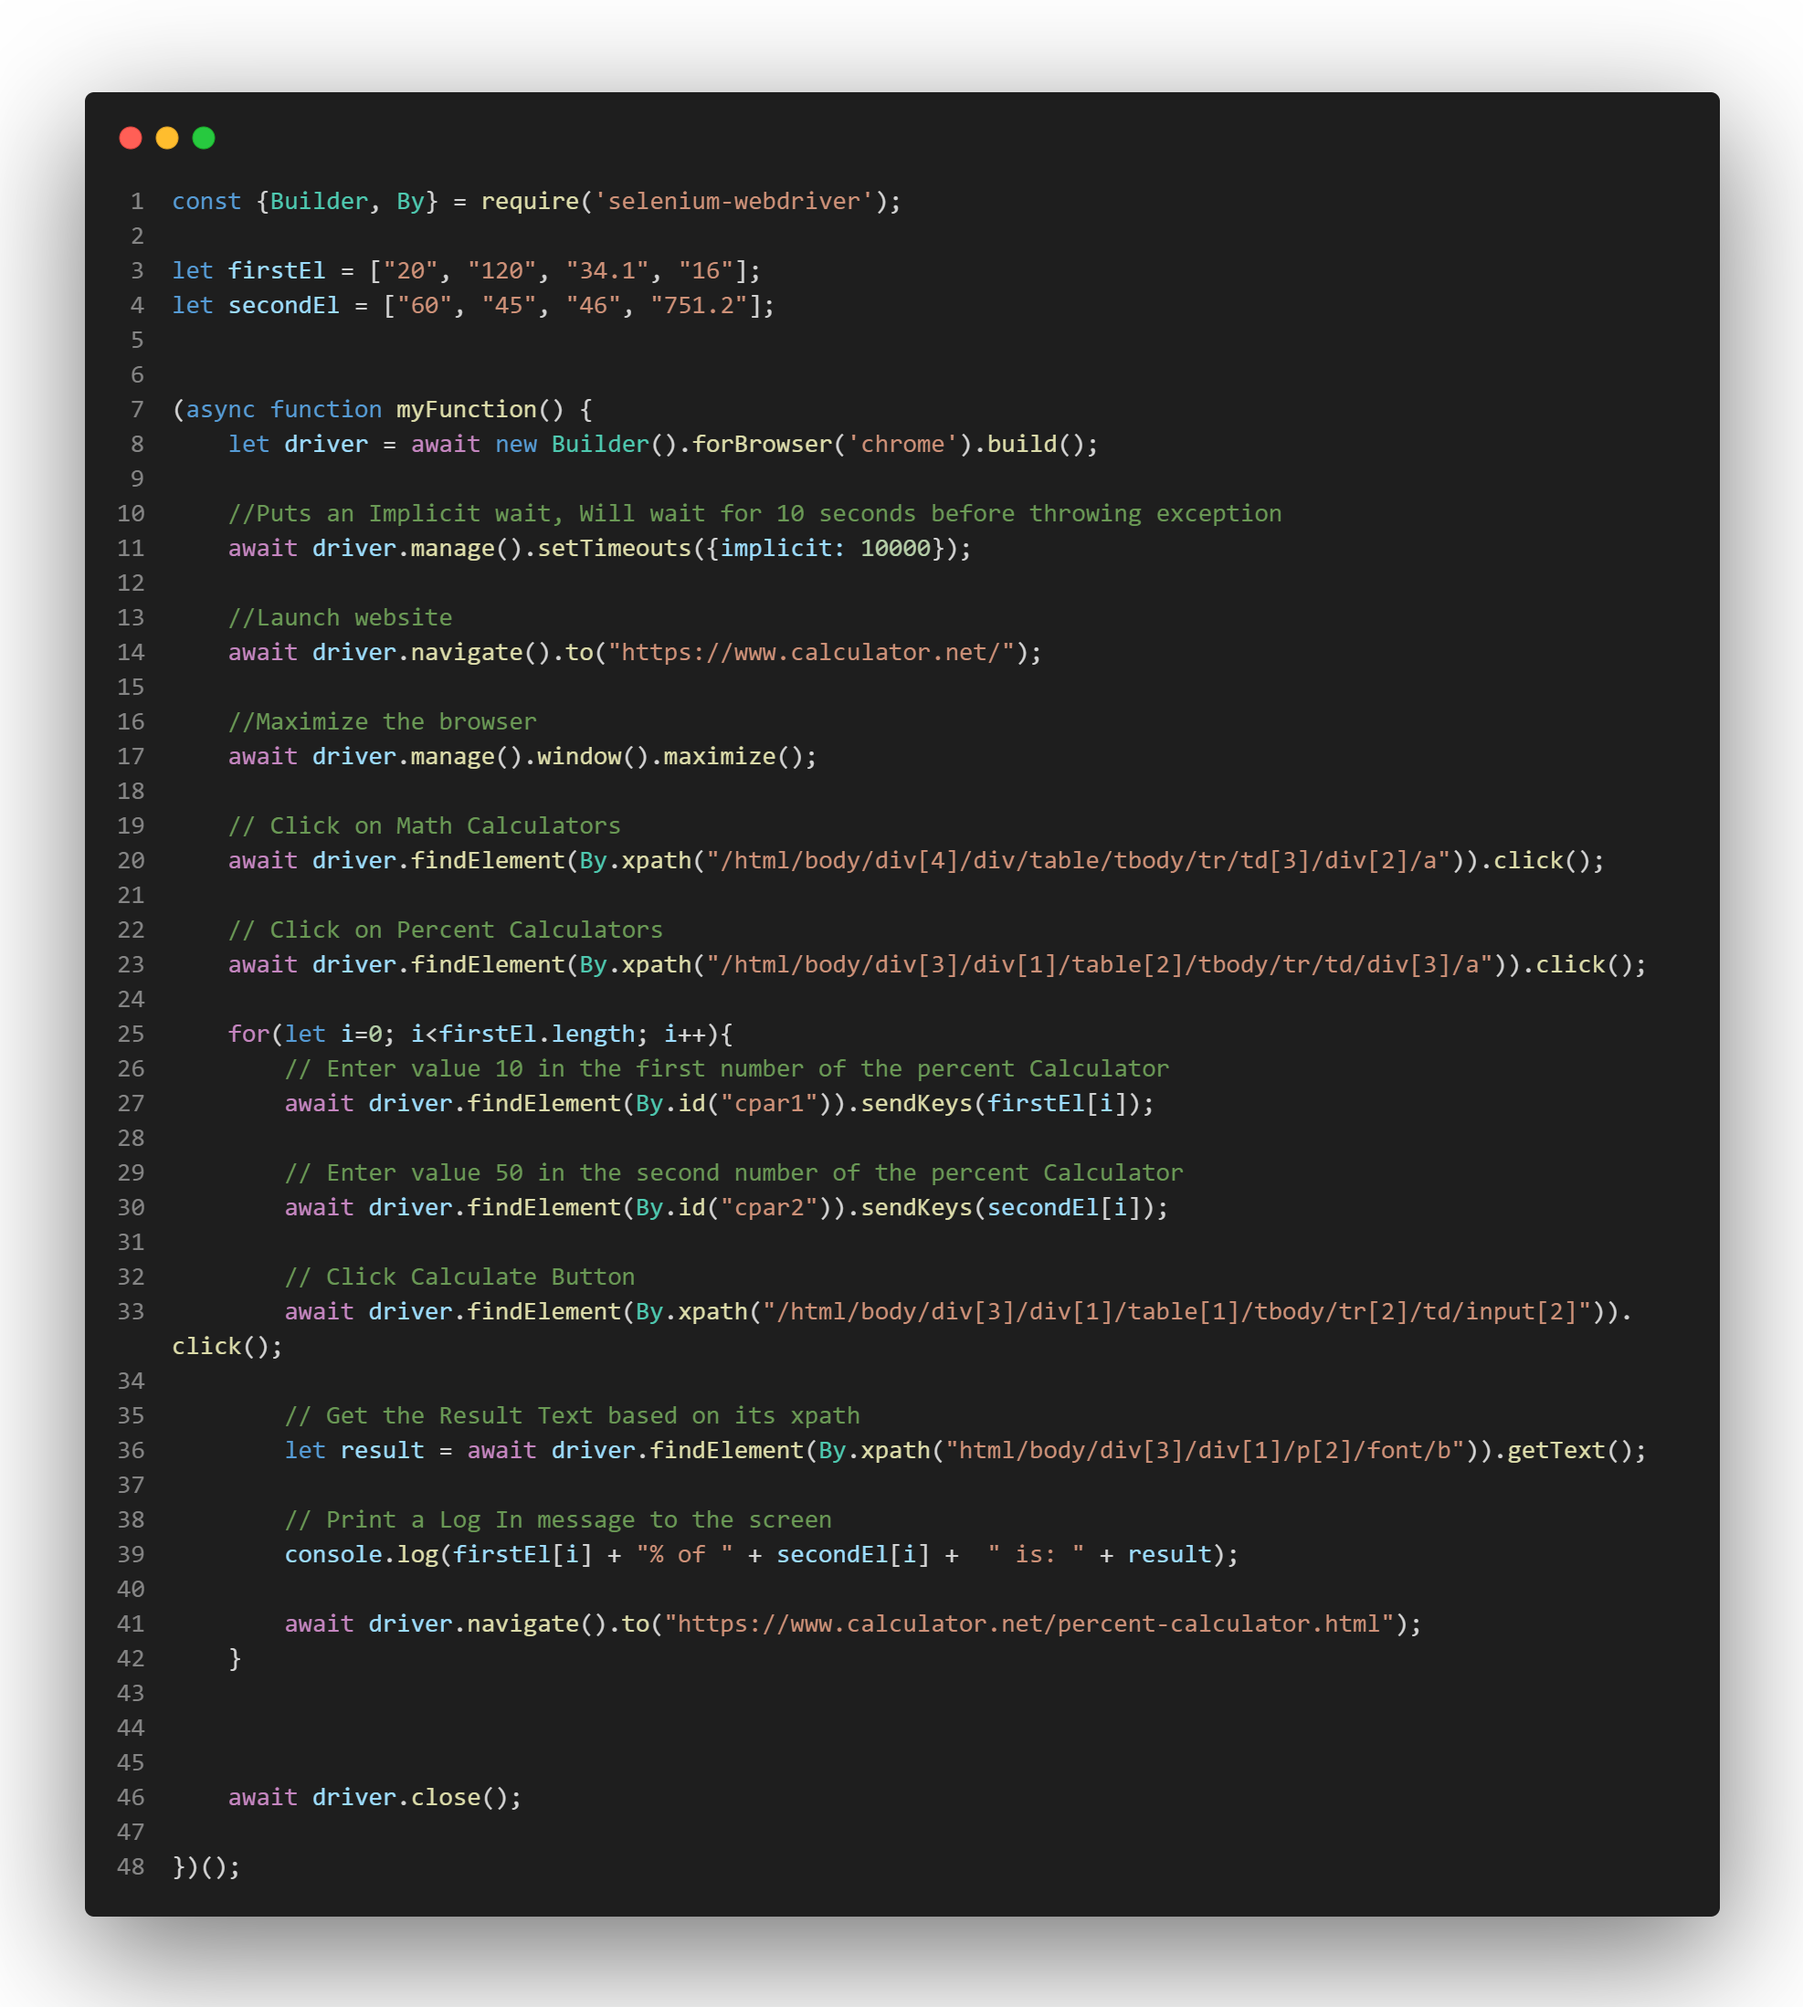
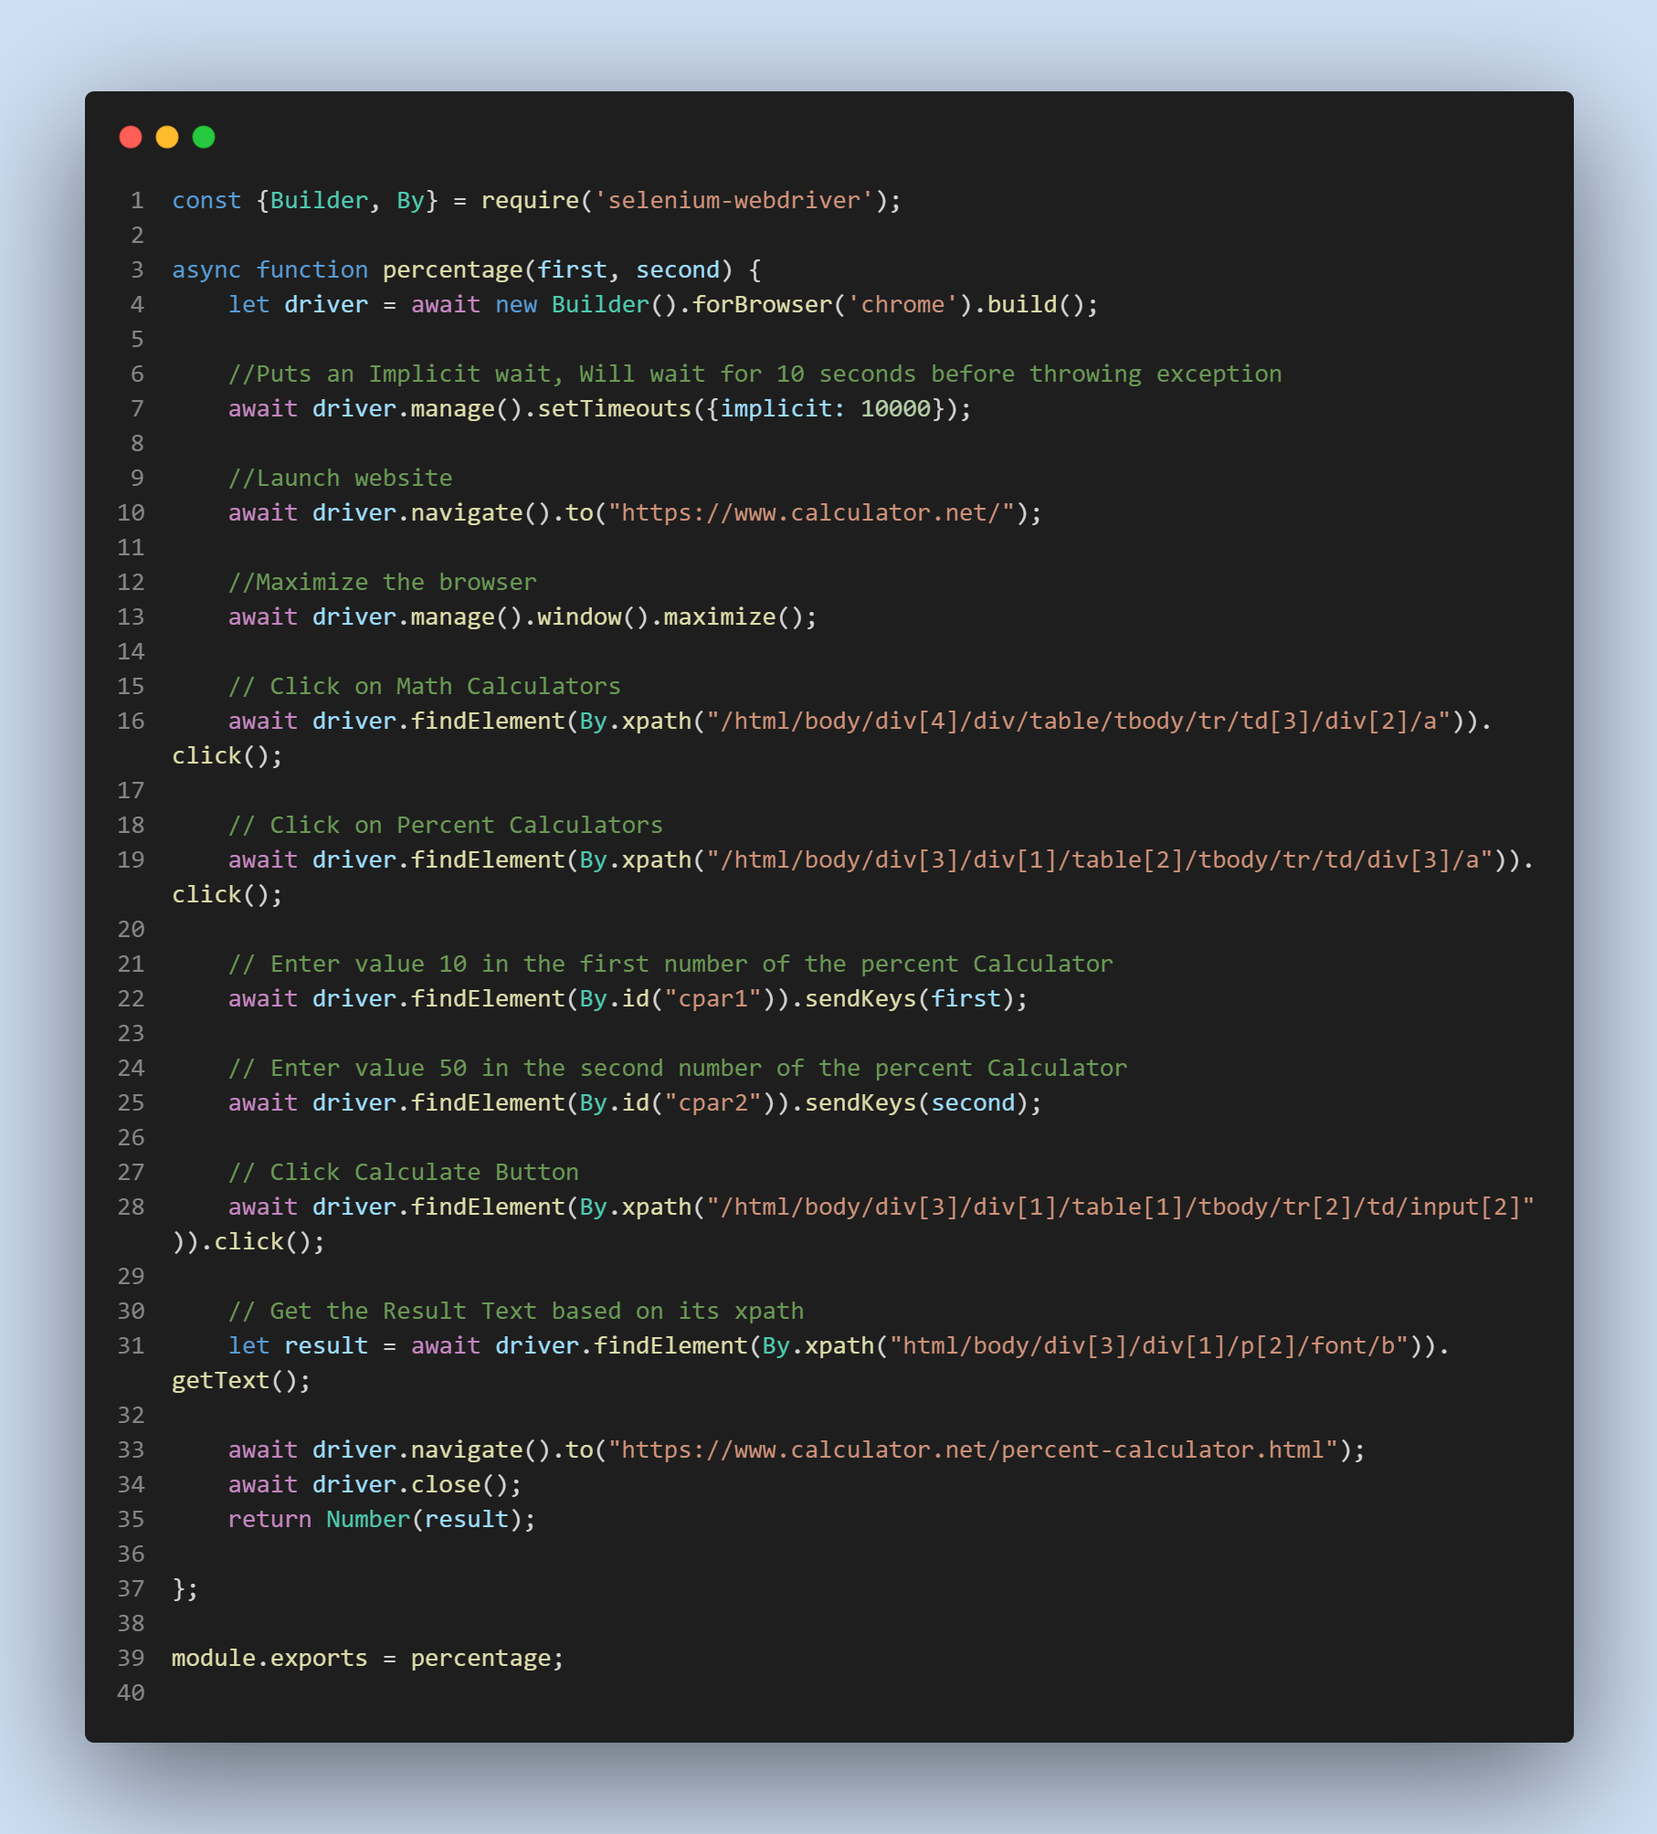
Integración Selenium con XUnit

diff --git a/index.js b/index.js
@@ -1,48 +1,6 @@
-const {Builder, By} = require('selenium-webdriver');
+const percentage = require('./percentage');
 
-let firstEl = ["20", "120", "34.1", "16"];
-let secondEl = ["60", "45", "46", "751.2"];
-
-
-(async function myFunction() {
-    let driver = await new Builder().forBrowser('chrome').build();
-    
-    //Puts an Implicit wait, Will wait for 10 seconds before throwing exception
-    await driver.manage().setTimeouts({implicit: 10000});
-
-    //Launch website
-    await driver.navigate().to("https://www.calculator.net/");
-
-    //Maximize the browser
-    await driver.manage().window().maximize();
-
-    // Click on Math Calculators
-    await driver.findElement(By.xpath("/html/body/div[4]/div/table/tbody/tr/td[3]/div[2]/a")).click();
-
-    // Click on Percent Calculators
-    await driver.findElement(By.xpath("/html/body/div[3]/div[1]/table[2]/tbody/tr/td/div[3]/a")).click();
-
-    for(let i=0; i<firstEl.length; i++){
-        // Enter value 10 in the first number of the percent Calculator
-        await driver.findElement(By.id("cpar1")).sendKeys(firstEl[i]);
-
-        // Enter value 50 in the second number of the percent Calculator
-        await driver.findElement(By.id("cpar2")).sendKeys(secondEl[i]);
-
-        // Click Calculate Button
-        await driver.findElement(By.xpath("/html/body/div[3]/div[1]/table[1]/tbody/tr[2]/td/input[2]")).click();
-
-        // Get the Result Text based on its xpath
-        let result = await driver.findElement(By.xpath("html/body/div[3]/div[1]/p[2]/font/b")).getText();
-
-        // Print a Log In message to the screen
-        console.log(firstEl[i] + "% of " + secondEl[i] +  " is: " + result);
-
-        await driver.navigate().to("https://www.calculator.net/percent-calculator.html");
-    }
-
-    
-
-    await driver.close();
-
+(async function main(){
+    let result = await percentage(100, 10);
+    console.log(result);
 })();

diff --git a/percentage.js b/percentage.js
@@ -1,0 +1,39 @@
+const {Builder, By} = require('selenium-webdriver');
+
+async function percentage(first, second) {
+    let driver = await new Builder().forBrowser('chrome').build();
+    
+    //Puts an Implicit wait, Will wait for 10 seconds before throwing exception
+    await driver.manage().setTimeouts({implicit: 10000});
+
+    //Launch website
+    await driver.navigate().to("https://www.calculator.net/");
+
+    //Maximize the browser
+    await driver.manage().window().maximize();
+
+    // Click on Math Calculators
+    await driver.findElement(By.xpath("/html/body/div[4]/div/table/tbody/tr/td[3]/div[2]/a")).click();
+
+    // Click on Percent Calculators
+    await driver.findElement(By.xpath("/html/body/div[3]/div[1]/table[2]/tbody/tr/td/div[3]/a")).click();
+
+    // Enter value 10 in the first number of the percent Calculator
+    await driver.findElement(By.id("cpar1")).sendKeys(first);
+
+    // Enter value 50 in the second number of the percent Calculator
+    await driver.findElement(By.id("cpar2")).sendKeys(second);
+
+    // Click Calculate Button
+    await driver.findElement(By.xpath("/html/body/div[3]/div[1]/table[1]/tbody/tr[2]/td/input[2]")).click();
+
+    // Get the Result Text based on its xpath
+    let result = await driver.findElement(By.xpath("html/body/div[3]/div[1]/p[2]/font/b")).getText();
+
+    await driver.navigate().to("https://www.calculator.net/percent-calculator.html");
+    await driver.close();
+    return Number(result);
+
+};
+
+module.exports = percentage;

diff --git a/percentage.test.js b/percentage.test.js
@@ -1,0 +1,19 @@
+const percentage = require('./percentage');
+
+describe('Test Suite 01: Pruebas de porcentaje', () => {
+    test('10 percent of 100 is equal to 10', async () => {
+        expect(await percentage(10,100)).toBe(10);
+    }, 50000);
+    
+    test('120 percent of 45 is equal to 54', async () => {
+        expect(await percentage(120,45)).toBe(54);
+    }, 50000);
+    
+    test('34.1 percent of 46 is equal to 15.686', async () => {
+        expect(await percentage(34.1,46)).toBe(15.686);
+    }, 50000);
+
+    test('16 percent of 751.2 is equal to 120.192', async () => {
+        expect(await percentage(16,751.2)).toBe(120.192);
+    }, 50000);
+});

diff --git a/README.md b/README.md
@@ -14,34 +14,45 @@ El presente laboratorio consiste en la automatización de pruebas funcionales co
 
 ## Actividades
 
-1. Implementar Casos de prueba para la funcionalidad "Percentage Calculator"
+### 1. Implementar Casos de prueba para la funcionalidad "Percentage Calculator"
 
-    * Diseñar casos de prueba: Entradas, proceso, Resultado Esperado
-    * Implementar los scripts de prueba
-    
-    ![Script de pruebas](docs/03_script.png)
+* Diseñar casos de prueba: Entradas, proceso, Resultado Esperado
+* Implementar los scripts de Selenium en el archivo `percentage.js`
 
-    * Ejecutar los scripts de prueba
-    
-    ![Ejecución de script](docs/02_reporte_consola.png)
+![Script de pruebas](docs/03_script.png)
 
-    * Reportar los resultados de la ejecución
+* Ejecutar los scripts de prueba
 
-    ![Reporte de resultados](docs/01_reporte_pruebas_funcionales.png)
+![Ejecución de script](docs/02_reporte_consola.png)
+
+* Reportar los resultados de la ejecución
+
+![Reporte de resultados](docs/01_reporte_pruebas_funcionales.png)
 
 
-2. Configurar Browser-specific WebDriver 
+### 2. Configurar Browser-specific WebDriver 
 
-    * Descarga de Selenium Driver Web for Chrome de la página <https://chromedriver.storage.googleapis.com/index.html>
+* Descarga de Selenium Driver Web for Chrome de la página <https://chromedriver.storage.googleapis.com/index.html>
 
-    ![Descarga Selenium Web Driver for Chrome](docs/04_descarga_driver.png)
+![Descarga Selenium Web Driver for Chrome](docs/04_descarga_driver.png)
 
-    * Descomprimir en una carpeta para luego agregar al PATH del sistema en Windows.
+* Descomprimir en una carpeta para luego agregar al PATH del sistema en Windows.
 
-    ![Carpeta WebDriver](docs/05_carpetawebdriver.png)
+![Carpeta WebDriver](docs/05_carpetawebdriver.png)
 
-    * Agregar el directorio al PATH del sistema
+* Agregar el directorio al PATH del sistema
 
-        > `setx PATH "%PATH%;C:\WebDriver\bin"`
+    > `setx PATH "%PATH%;C:\WebDriver\bin"`
 
-    
+### 3. Integrar con xUnit
+
+* Instalación de Jest mediando NPM
+    > `npm i --save-dev jest`
+
+* Script de prueba, archivo `percentage.test.js`
+
+    ![Código con Jest](docs/06_code_jest.png)
+
+* Reporte de consola de los resultados:
+
+    ![Reporte Jest](docs/07_results_jest.png)
